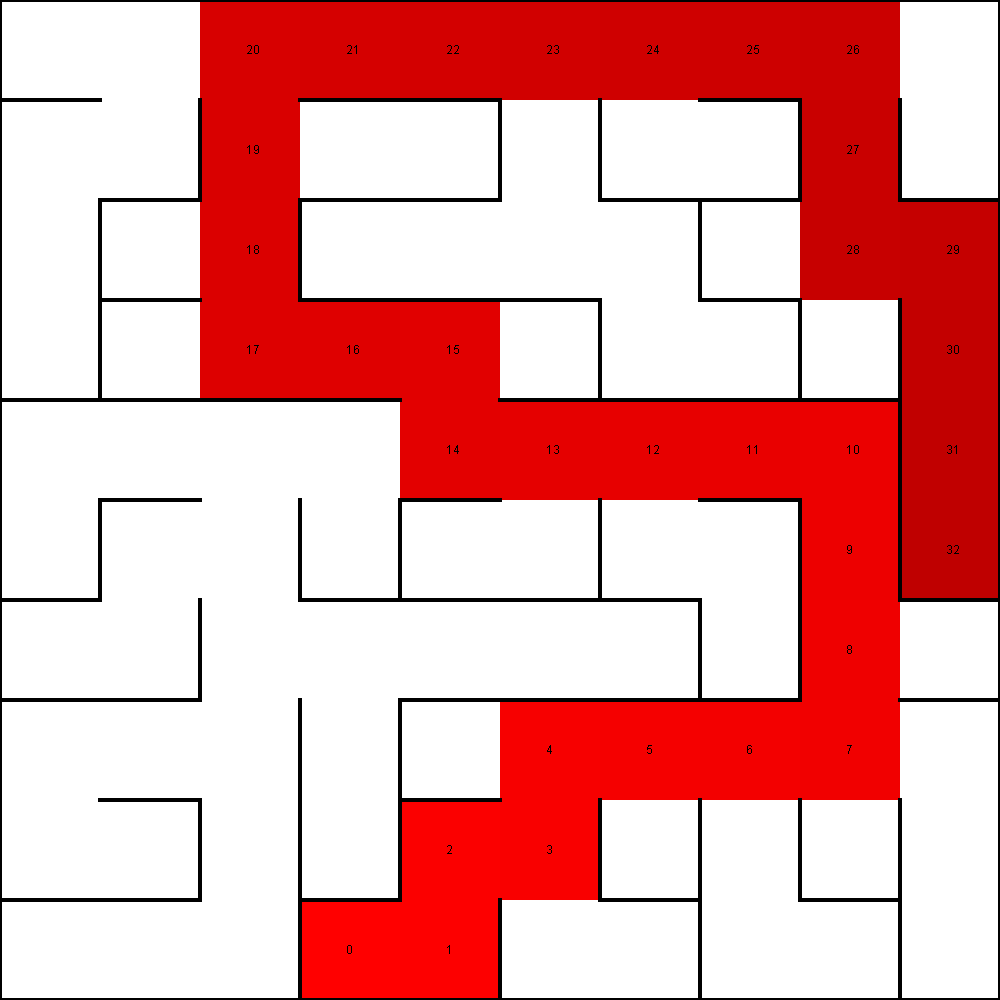
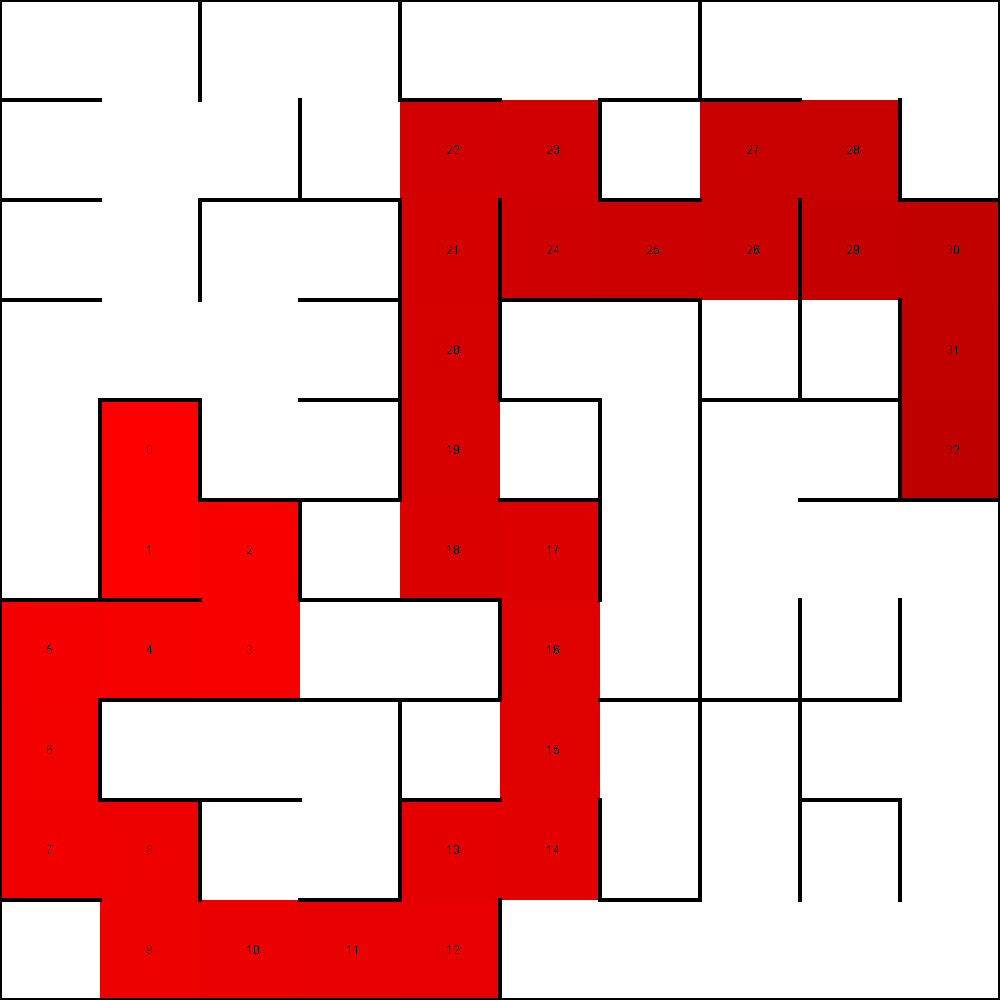
AldousBroder and Wilsons algo added

diff --git a/src/com/example/Wilsons.java b/src/com/example/Wilsons.java
@@ -1,0 +1,35 @@
+package com.example;
+
+import java.util.ArrayList;
+
+public class Wilsons {
+
+    public static Grid on(Grid grid) {
+        ArrayList<Cell> unvisited = grid.getAllCells();
+        Cell first = Grid.getRandomElement(unvisited);
+        unvisited.remove(first);
+
+        while (!unvisited.isEmpty()) {
+            Cell cell = Grid.getRandomElement(unvisited);
+            ArrayList<Cell> path = new ArrayList<Cell>();
+            path.add(cell);
+
+            while (unvisited.contains(cell)) {
+                cell = Grid.getRandomElement(unvisited);
+                Integer position = path.indexOf(cell);
+                if (position != -1) {
+                    path = new ArrayList<>(path.subList(0, position));
+                } else {
+                    path.add(cell);
+                }
+            }
+            for (int x = 0; x < path.size() - 2; x++) {
+                path.get(x).link(path.get(x + 1), true);
+                unvisited.remove(path.get(x));
+            }
+        }
+        return grid;
+    }
+
+
+}

diff --git a/src/com/example/Grid.java b/src/com/example/Grid.java
@@ -7,6 +7,7 @@ import java.io.File;
 import java.io.IOException;
 import java.util.ArrayList;
 import java.util.List;
+import java.util.Random;
 
 public class Grid {
     int rows;
@@ -121,6 +122,21 @@ public class Grid {
         return rowArr;
     }
 
+    public static <T> T getRandomElement(ArrayList<T> list) {
+        Random rand = new Random();
+        int var = rand.nextInt(list.size());
+        System.out.println(var);
+         return list.get(var);
+    }
+
+    public ArrayList<Cell> getAllCells(){
+        ArrayList<Cell> list = new ArrayList<Cell>();
+        for (List<Cell> row: grid){
+            list.addAll(row);
+        }
+        return list;
+    }
+
     public Cell getCell(int row, int col) {
         if (row > rows - 1 || col > cols - 1 || row < 0 || col < 0) {
             return null;
@@ -144,6 +160,10 @@ public class Grid {
                 cell.east = getCell(r, c + 1);
             }
         }
+    }
+
+    public Integer size() {
+        return rows * cols;
     }
 
     public Cell randomCell() {

diff --git a/src/com/example/Cell.java b/src/com/example/Cell.java
@@ -14,12 +14,34 @@ public class Cell {
     Cell west;
     Map<Cell, Boolean> links;
 
-
     public Cell(int row, int col) {
         this.row = row;
         this.col = col;
 
         links = new HashMap();
+    }
+
+    public ArrayList<Cell> neighbors(Grid grid) {
+        ArrayList<Cell> neighbors = new ArrayList<Cell>();
+        Cell above = grid.getCell(row - 1, col);
+        Cell below = grid.getCell(row + 1, col);
+        Cell right = grid.getCell(row, col + 1);
+        Cell left = grid.getCell(row, col - 1);
+
+        if (above != null) {
+            neighbors.add(above);
+        }
+        if (below != null) {
+            neighbors.add(below);
+        }
+        if (right != null) {
+            neighbors.add(right);
+        }
+        if (left != null) {
+            neighbors.add(left);
+        }
+
+        return neighbors;
     }
 
     public Boolean isLinked(Cell cell) {

diff --git a/src/com/example/AldousBroder.java b/src/com/example/AldousBroder.java
@@ -1,0 +1,23 @@
+package com.example;
+
+import java.util.ArrayList;
+import java.util.Random;
+
+public class AldousBroder {
+
+    public static Grid on(Grid grid) {
+        Cell cell = grid.randomCell();
+        Integer unvisited = (grid.size() - 1);
+        while (unvisited > 0) {
+            Cell neighbor = Grid.getRandomElement(cell.neighbors(grid));
+
+            if (neighbor.links.isEmpty()) {
+                cell.link(neighbor, true);
+                unvisited -= 1;
+            }
+            cell = neighbor;
+        }
+        return grid;
+    }
+
+}

diff --git a/src/com/example/Mazes.java b/src/com/example/Mazes.java
@@ -4,8 +4,10 @@ import java.util.Map;
 
 public class Mazes {
     public static void main(String[] args) {
-        Grid grid = new Grid(10, 10);
-        grid = Sidewinder.on(grid);
+        Grid grid = new Grid(4, 4);
+          grid = Wilsons.on(grid);
+//        grid = AldousBroder.on(grid);
+//        grid = Sidewinder.on(grid);
 //        grid.drawASCII();
 
         Cell root = grid.getCell(0, 9);

diff --git a/src/com/example/Longest_Path.java b/src/com/example/Longest_Path.java
@@ -3,7 +3,9 @@ package com.example;
 public class Longest_Path {
     public static void main(String[] args) {
         Grid grid = new Grid(10, 10);
-        grid = Sidewinder.on(grid);
+          grid = Wilsons.on(grid);
+//        grid = AldousBroder.on(grid);
+//        grid = Sidewinder.on(grid);
 //        grid.drawASCII();
 
         Cell start = grid.getCell(0, 0);
